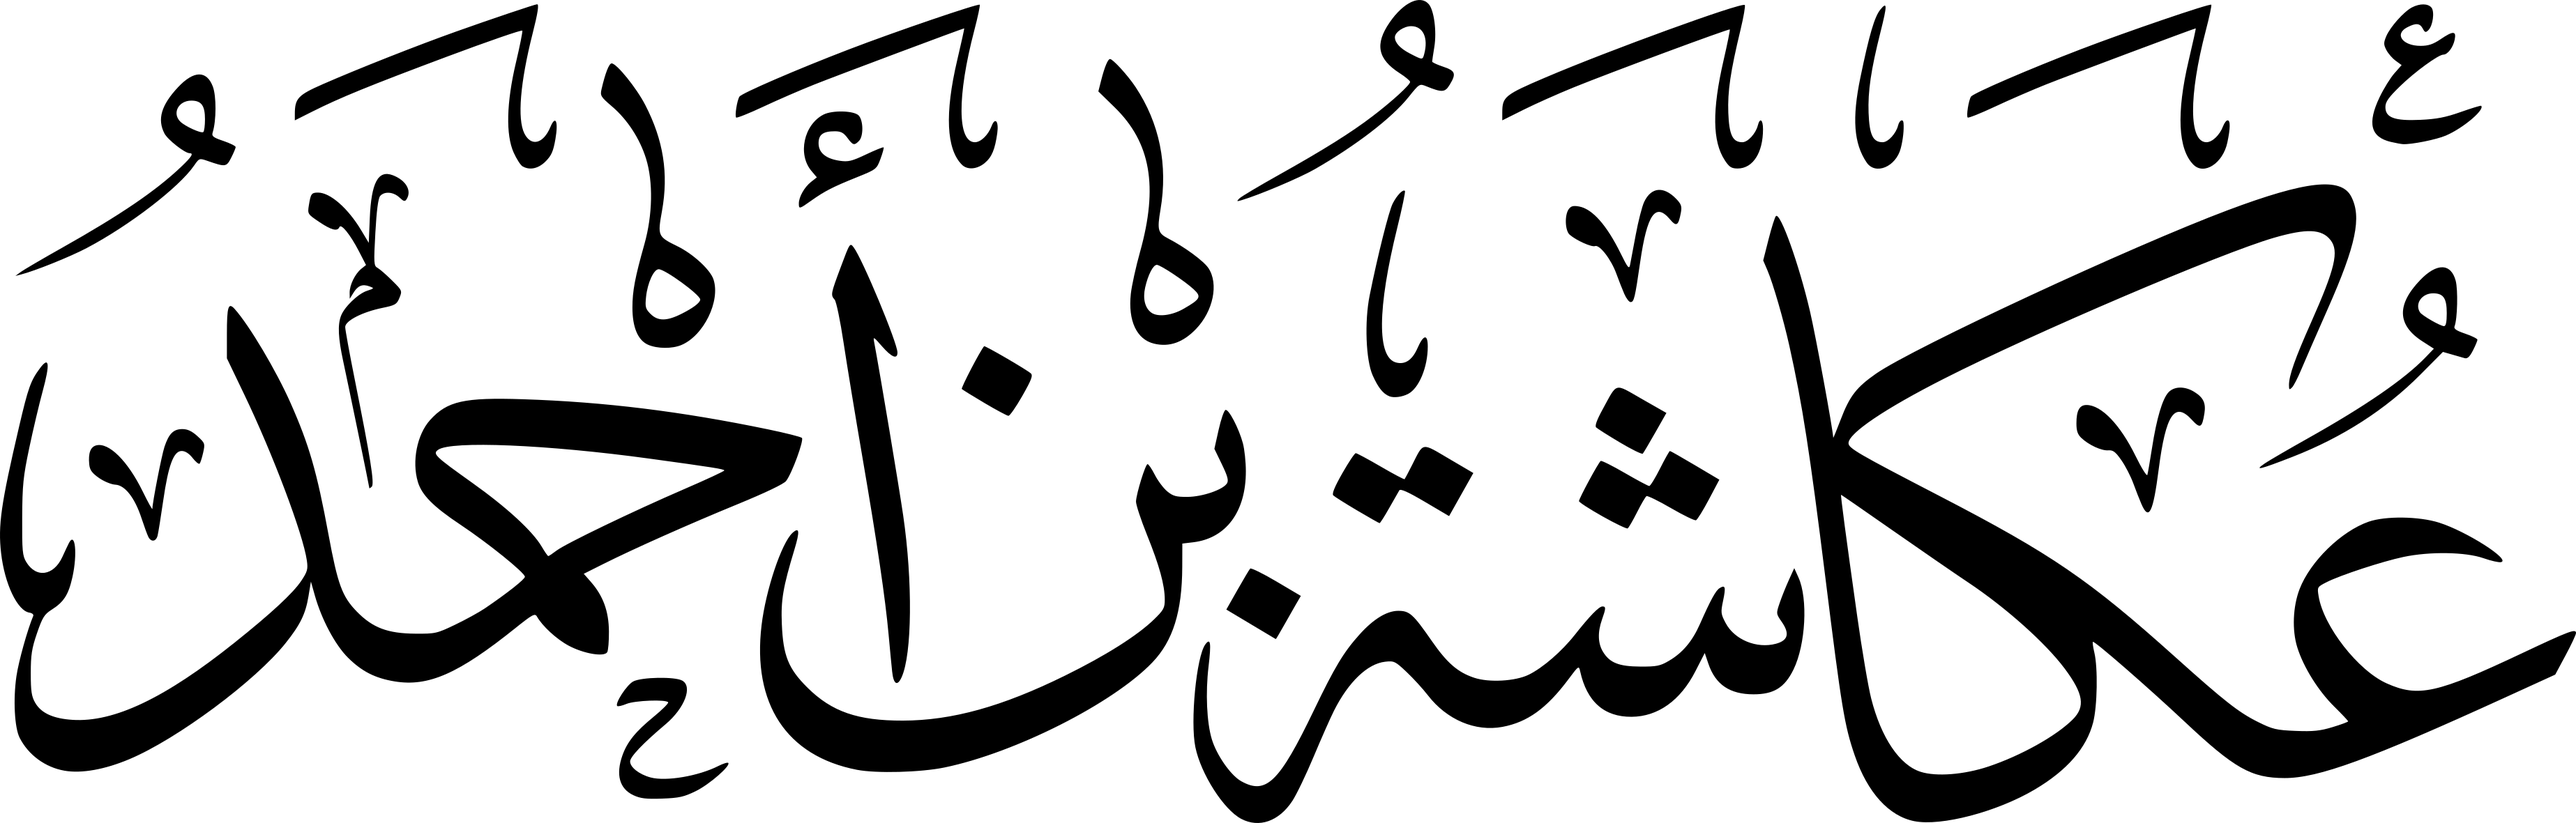
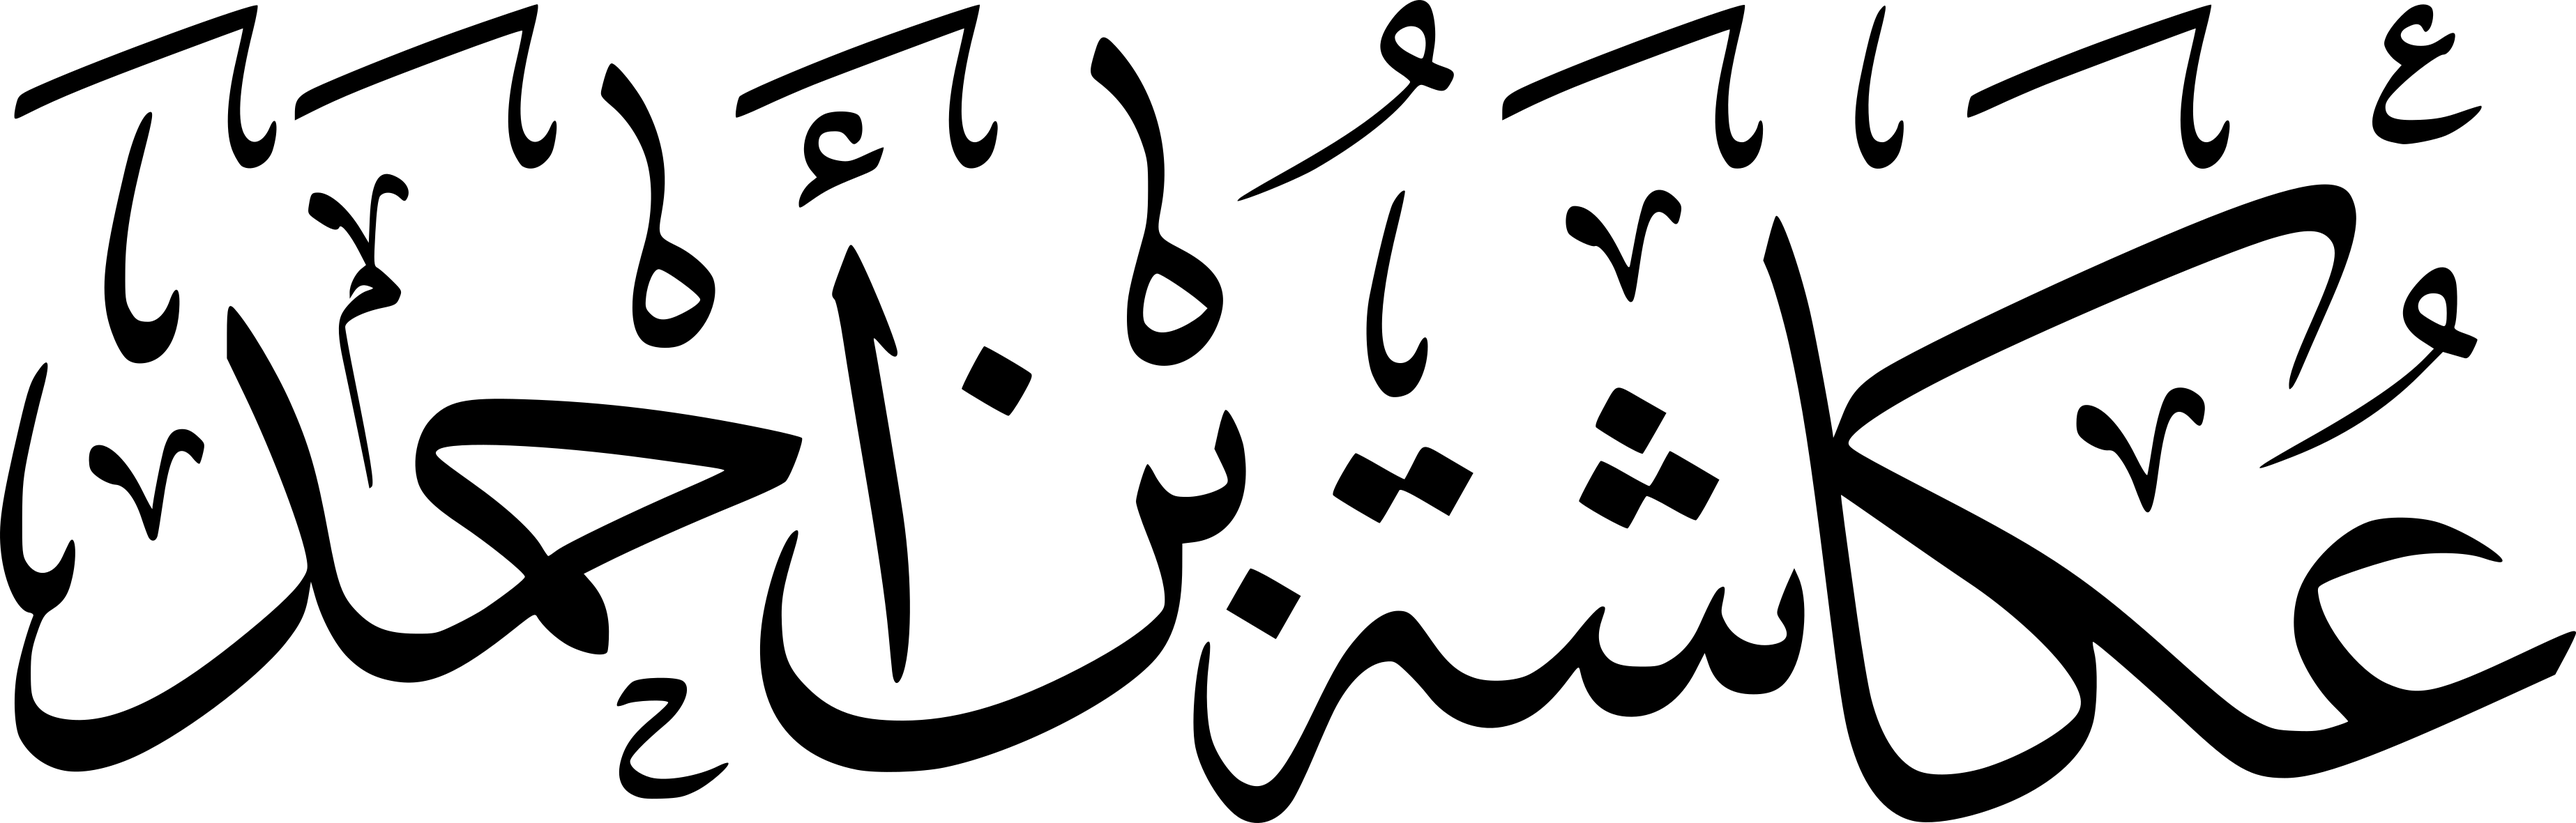
Update gambar #29, judul: أسماء الطلبة

Changed region(s): [[0.0, 0.0, 0.1245, 0.4572], [0.4358, 0.3048, 0.4981, 0.4572], [0.4047, 0.0305, 0.467, 0.1524]]

diff --git a/index.html b/index.html
@@ -3,7 +3,7 @@
 <head>
   <meta charset="UTF-8">
   <meta name="viewport" content="width=device-width, initial-scale=1.0">
-  <title>أسماء الطلبة — Galeri Tullab</title>
+  <title>أسماء الطلبة</title>
   <meta name="description" content="Lima puluh nama yang ditinta tangan dalam kaligrafi Arab. Galeri digital — unduh PNG asli tanpa kompresi.">
   <link rel="preconnect" href="https://fonts.googleapis.com">
   <link rel="preconnect" href="https://fonts.gstatic.com" crossorigin>
